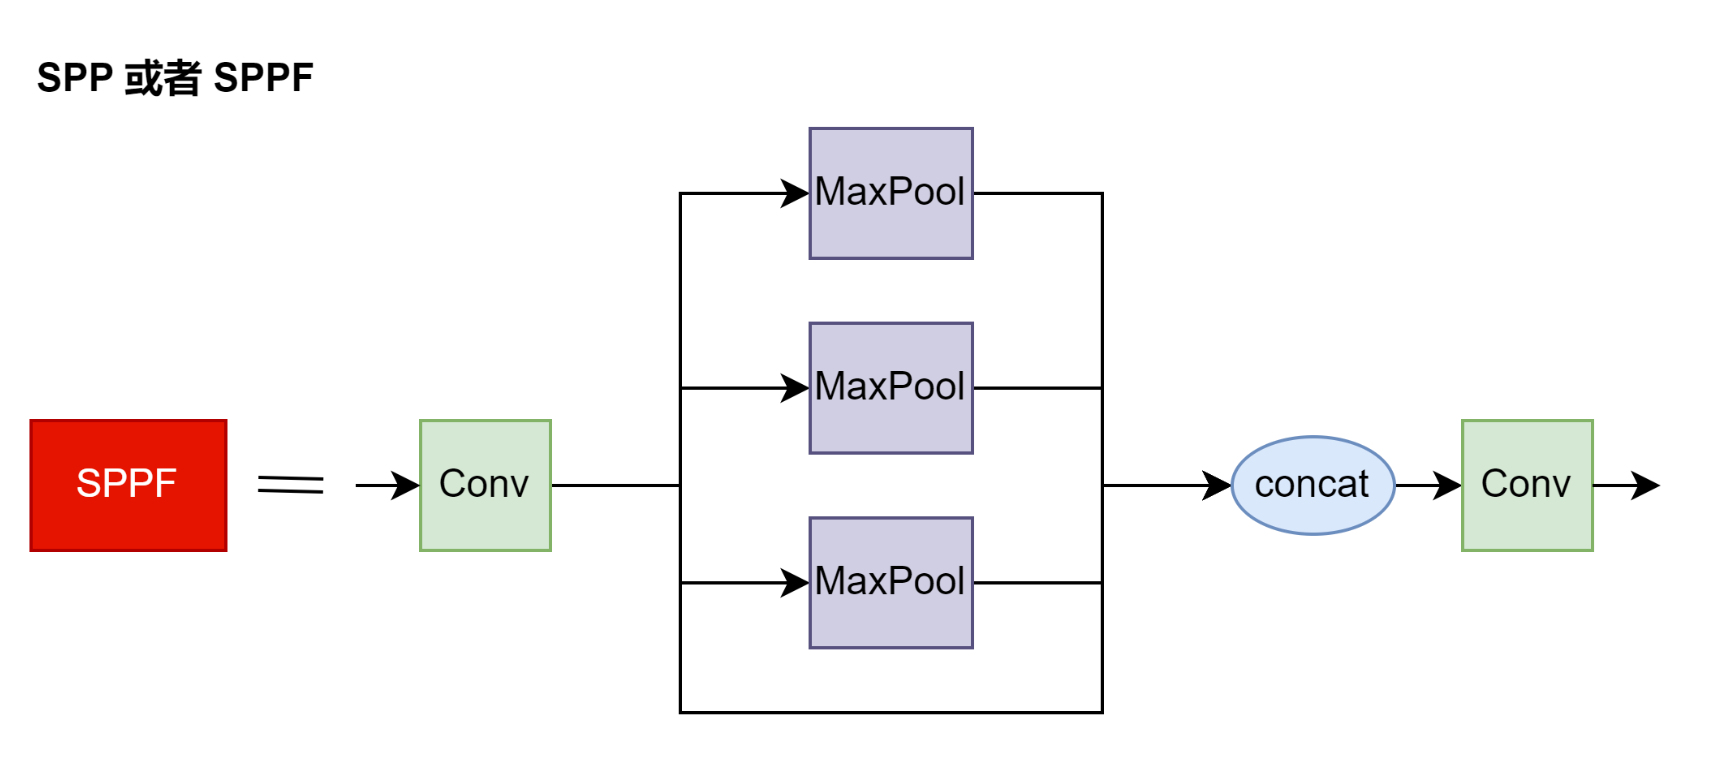
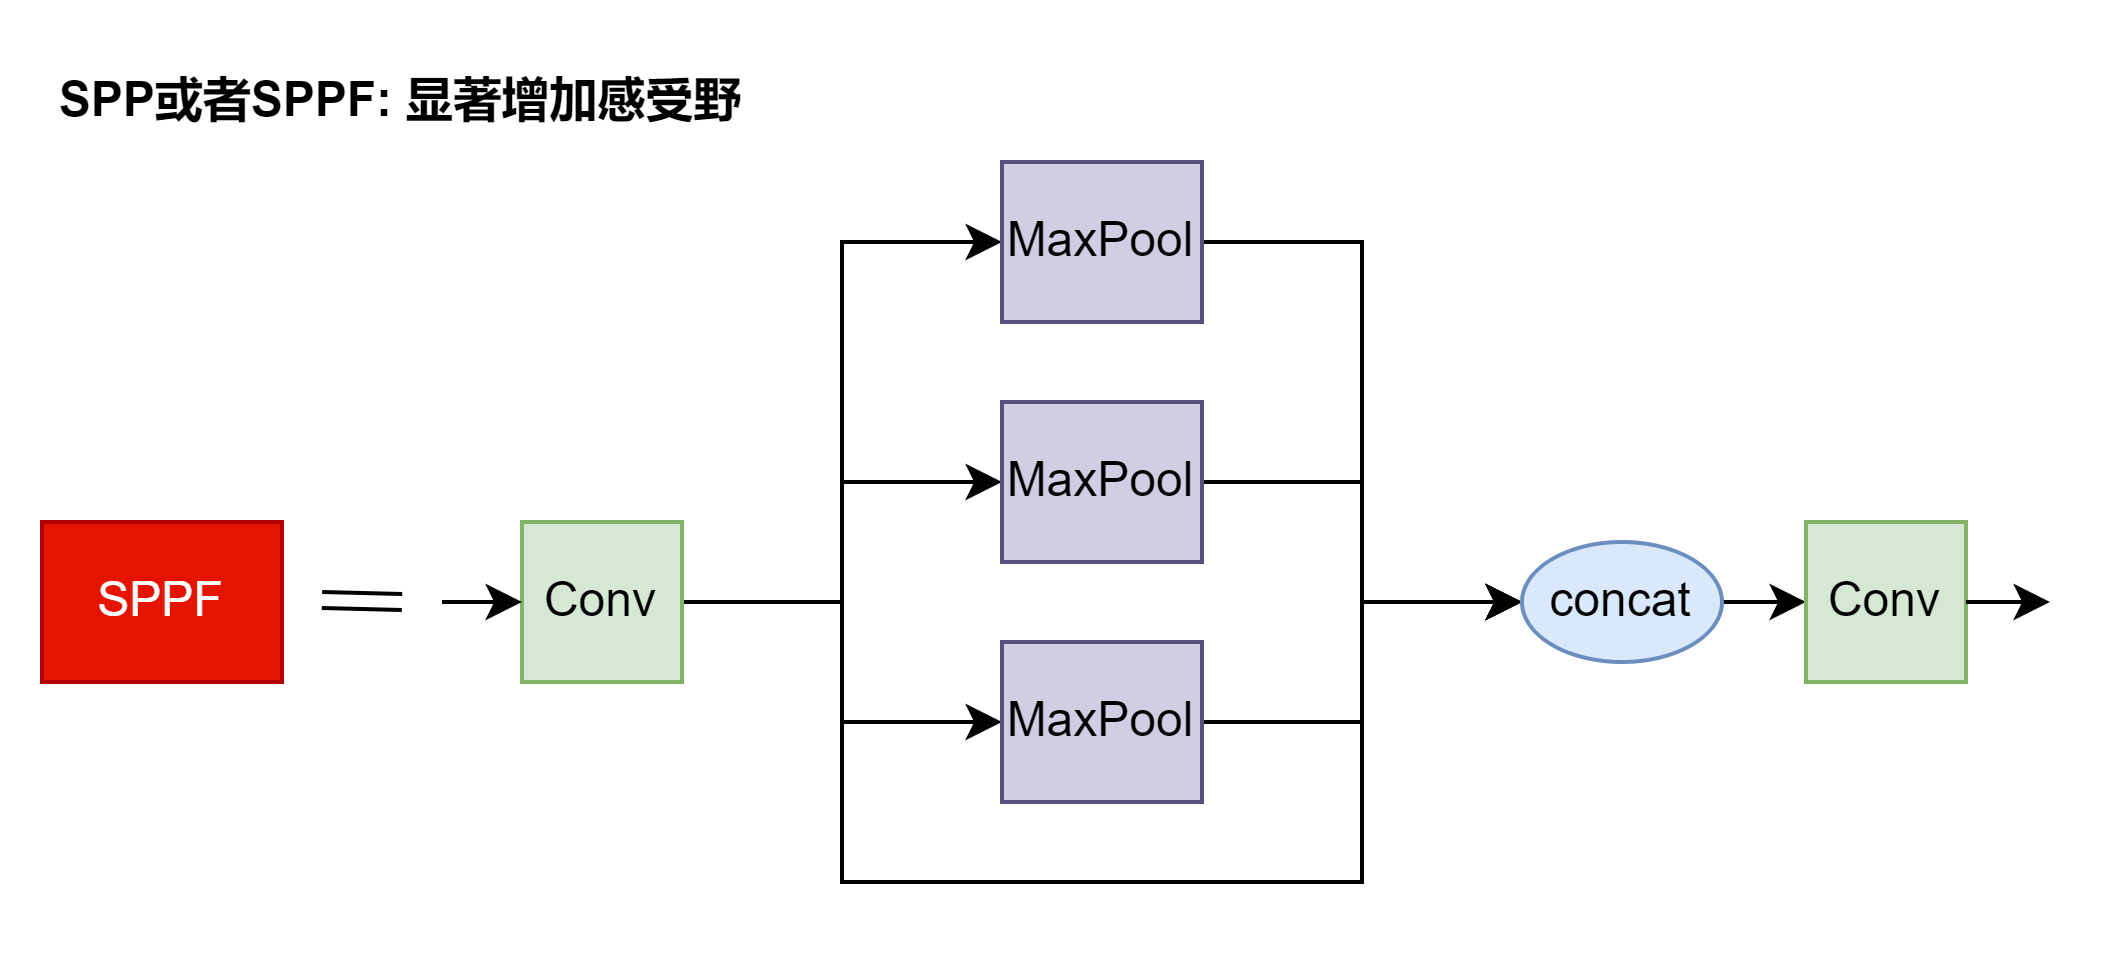
yolo

diff --git a/计算机视觉/yolo.md b/计算机视觉/yolo.md
@@ -1,0 +1,40 @@
+# YOLO
+> 参考: https://blog.csdn.net/wjinjie/article/details/107509243  
+> 这里看看yolov5s的网络结构
+
+## 一、网络结构
+
+<details>
+<summary><b>1. Conv</b></summary>
+
+![Conv](jpegs/Conv.png)
+
+</details>
+
+<details>
+<summary><b>2. C3_x</b></summary>
+
+![C3](jpegs/C3.png)
+
+</details>
+
+<details>
+<summary><b>3. SPP 或者 SPPF</b></summary>
+
+![SPP](jpegs/SPP.png)
+
+</details>
+
+<details>
+<summary><b>4. 整个yolo模型</b></summary>
+
+![yolov5s](jpegs/yolov5s.png)
+
+</details>
+
+## 二、损失函数
+
+1. yolov5
+    > todo
+2. yolov8
+    > 参考: https://www.vectorexplore.com/tech/computer-vision/yolov8/anchor-free.html

diff --git a/计算机视觉/README.md b/计算机视觉/README.md
@@ -7,3 +7,4 @@
 |[VGG](计算机视觉/VGG.md)|`ILSVRC 2014`中第二名，提出可以重复使用简单的基础块，来构建深度网络|
 |[GoogLeNet](计算机视觉/GoogLeNet.md)|`ILSVRC 2014`中胜出，实现了一个**Inception块**|
 |[ResNet](计算机视觉/ResNet.md)|`ILSVRC 2015`胜出，使用了**跳跃链接**，**批量归一化**(batch norm)|
+|[yolo](计算机视觉/yolo.md)|单阶段的目标检测网络|

diff --git a/计算机视觉/_sidebar.md b/计算机视觉/_sidebar.md
@@ -9,5 +9,6 @@
     - [VGG](计算机视觉/VGG.md)
     - [GoogLeNet](计算机视觉/GoogLeNet.md)
     - [ResNet](计算机视觉/ResNet.md)
+    - [yolo](计算机视觉/yolo.md)
 - [LLM](LLM/)
 - [其他](其他/)
